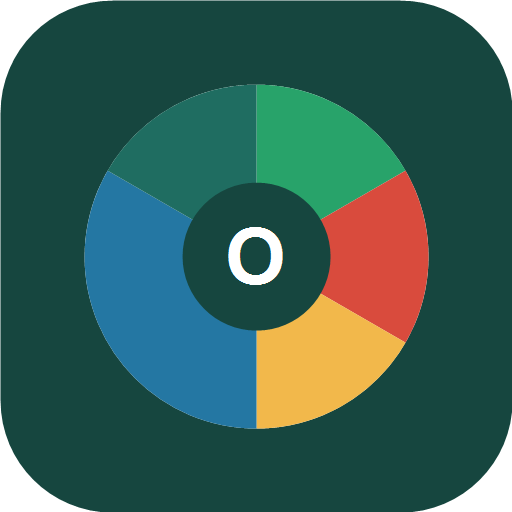
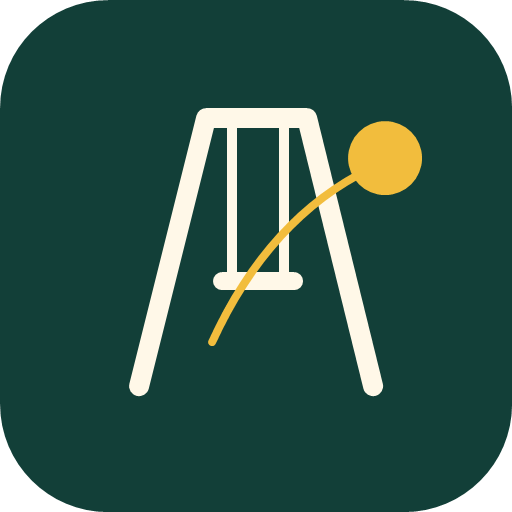
Add Olvidalo visual identity

diff --git a/src/styles.css b/src/styles.css
@@ -1,23 +1,24 @@
 :root {
-  color: #18211f;
-  background: #f5f7f6;
+  color: #17211c;
+  background: #eef4ee;
   font-family:
     Inter, ui-sans-serif, system-ui, -apple-system, BlinkMacSystemFont, "Segoe UI", sans-serif;
   font-synthesis: none;
   line-height: 1.5;
   text-rendering: optimizeLegibility;
   -webkit-font-smoothing: antialiased;
-  --ink: #18211f;
-  --muted: #65736f;
-  --line: #dce5e0;
-  --surface: #ffffff;
-  --soft: #edf4f1;
-  --brand: #16463f;
-  --brand-bright: #1f6d61;
-  --fair: #258e58;
-  --out: #c93932;
-  --gold: #d99b2d;
-  --shadow: 0 18px 48px rgba(22, 70, 63, 0.1);
+  --ink: #17211c;
+  --muted: #647267;
+  --line: #dce5da;
+  --surface: #fffdf7;
+  --soft: #edf4ec;
+  --brand: #123f38;
+  --brand-bright: #1f7564;
+  --fair: #258f5d;
+  --out: #c64235;
+  --ball: #f2bd3d;
+  --gold: #d4a139;
+  --shadow: 0 18px 48px rgba(18, 63, 56, 0.12);
 }
 
 * {
@@ -32,6 +33,7 @@ body {
   margin: 0;
   min-width: 320px;
   min-height: 100vh;
+  background: linear-gradient(180deg, #eaf2eb 0%, #f8faf4 52%, #eef4ee 100%);
 }
 
 button,
@@ -57,7 +59,7 @@ select {
   min-height: 46px;
   border: 1px solid var(--line);
   border-radius: 8px;
-  background: #ffffff;
+  background: var(--surface);
   color: var(--ink);
   padding: 0 12px;
   outline: none;
@@ -98,11 +100,12 @@ button:focus-visible {
 .brand-mark {
   width: 42px;
   height: 42px;
-  border-radius: 12px;
-  box-shadow: 0 8px 24px rgba(22, 70, 63, 0.18);
+  border-radius: 10px;
+  box-shadow: 0 10px 24px rgba(18, 63, 56, 0.22);
 }
 
 .brand strong {
+  color: var(--brand);
   font-size: 1.2rem;
   line-height: 1;
 }
@@ -118,7 +121,7 @@ button:focus-visible {
   padding: 14px;
   border: 1px solid var(--line);
   border-radius: 8px;
-  background: var(--surface);
+  background: linear-gradient(180deg, var(--surface), #fbfff9);
   box-shadow: var(--shadow);
 }
 
@@ -196,7 +199,7 @@ button:focus-visible {
   padding: 8px;
   border: 1px solid var(--line);
   border-radius: 8px;
-  background: #fbfdfc;
+  background: #fbfef9;
 }
 
 .player-row.dragging {
@@ -242,13 +245,14 @@ button:focus-visible {
 }
 
 .primary {
-  background: var(--brand);
+  background: linear-gradient(180deg, var(--brand-bright), var(--brand));
   color: #ffffff;
   padding: 0 16px;
+  box-shadow: inset 0 -2px 0 rgba(0, 0, 0, 0.14);
 }
 
 .secondary {
-  background: var(--soft);
+  background: #f5faf4;
   color: var(--brand);
   padding: 0 14px;
 }
@@ -269,7 +273,7 @@ button:focus-visible {
   padding: 5px;
   border: 1px solid var(--line);
   border-radius: 8px;
-  background: var(--soft);
+  background: #eef5ed;
 }
 
 .segmented-control button {
@@ -282,10 +286,48 @@ button:focus-visible {
 .segmented-control button.selected {
   background: var(--brand);
   color: #ffffff;
+  box-shadow: inset 0 -2px 0 rgba(0, 0, 0, 0.12);
 }
 
 .play-panel {
   gap: 16px;
+  position: relative;
+  overflow: hidden;
+  isolation: isolate;
+}
+
+.play-panel::before,
+.play-panel::after {
+  content: "";
+  position: absolute;
+  pointer-events: none;
+  z-index: 0;
+}
+
+/* The play panel gets a faint swing path without adding extra markup. */
+.play-panel::before {
+  width: 360px;
+  height: 360px;
+  top: 72px;
+  left: -176px;
+  border: 1px solid rgba(18, 63, 56, 0.08);
+  border-radius: 999px;
+  transform: rotate(-18deg);
+}
+
+.play-panel::after {
+  width: 18px;
+  height: 18px;
+  top: 98px;
+  right: 22px;
+  border-radius: 999px;
+  background: var(--ball);
+  box-shadow: 0 0 0 6px rgba(242, 189, 61, 0.12);
+}
+
+.play-panel > * {
+  position: relative;
+  z-index: 1;
 }
 
 .status-row {
@@ -300,7 +342,7 @@ button:focus-visible {
   min-height: 30px;
   padding: 0 10px;
   border-radius: 999px;
-  background: var(--soft);
+  background: #eef5ed;
   color: var(--brand);
   font-size: 0.78rem;
   font-weight: 850;
@@ -311,16 +353,21 @@ button:focus-visible {
   place-items: center;
   min-height: 116px;
   border-radius: 8px;
-  background: #102b28;
+  background:
+    linear-gradient(135deg, rgba(242, 189, 61, 0.12), transparent 38%),
+    linear-gradient(180deg, #0f332e, #0b2723);
   color: #ffffff;
   font-size: 4rem;
   font-variant-numeric: tabular-nums;
   font-weight: 900;
   line-height: 1;
+  box-shadow:
+    inset 0 1px 0 rgba(255, 248, 232, 0.12),
+    inset 0 -6px 0 rgba(0, 0, 0, 0.13);
 }
 
 .timer.done {
-  background: var(--brand);
+  background: linear-gradient(180deg, var(--brand-bright), var(--brand));
 }
 
 .hit-buttons {
@@ -335,14 +382,15 @@ button:focus-visible {
   color: #ffffff;
   font-size: 1.28rem;
   font-weight: 950;
+  box-shadow: inset 0 -4px 0 rgba(0, 0, 0, 0.14);
 }
 
 .fair-hit {
-  background: var(--fair);
+  background: linear-gradient(180deg, #2da66c, var(--fair));
 }
 
 .out-hit {
-  background: var(--out);
+  background: linear-gradient(180deg, #d84d3f, var(--out));
 }
 
 .control-button {
@@ -366,12 +414,12 @@ button:focus-visible {
   padding: 10px;
   border: 1px solid var(--line);
   border-radius: 8px;
-  background: #fbfdfc;
+  background: #fbfef9;
 }
 
 .leader-row.leader {
-  border-color: rgba(217, 155, 45, 0.46);
-  background: #fff9eb;
+  border-color: rgba(212, 161, 57, 0.5);
+  background: #fff7df;
 }
 
 .rank,
@@ -381,9 +429,15 @@ button:focus-visible {
   width: 32px;
   height: 32px;
   border-radius: 999px;
-  background: var(--soft);
-  color: var(--brand);
+  background: #fff0bd;
+  color: #4b3508;
   font-weight: 850;
+  box-shadow: inset 0 -2px 0 rgba(75, 53, 8, 0.08);
+}
+
+.leader-row.leader .rank {
+  background: var(--gold);
+  color: #2b1d04;
 }
 
 .leader-row div {

diff --git a/index.html b/index.html
@@ -3,7 +3,7 @@
   <head>
     <meta charset="UTF-8" />
     <meta name="viewport" content="width=device-width, initial-scale=1.0, viewport-fit=cover" />
-    <meta name="theme-color" content="#16463f" />
+    <meta name="theme-color" content="#123f38" />
     <meta name="apple-mobile-web-app-capable" content="yes" />
     <meta name="apple-mobile-web-app-title" content="Olvídalo" />
     <meta name="apple-mobile-web-app-status-bar-style" content="black-translucent" />

diff --git a/public/sw.js b/public/sw.js
@@ -1,4 +1,4 @@
-const CACHE_NAME = "olvidalo-v5";
+const CACHE_NAME = "olvidalo-v6";
 const CORE_ASSETS = [
   "./",
   "./index.html",